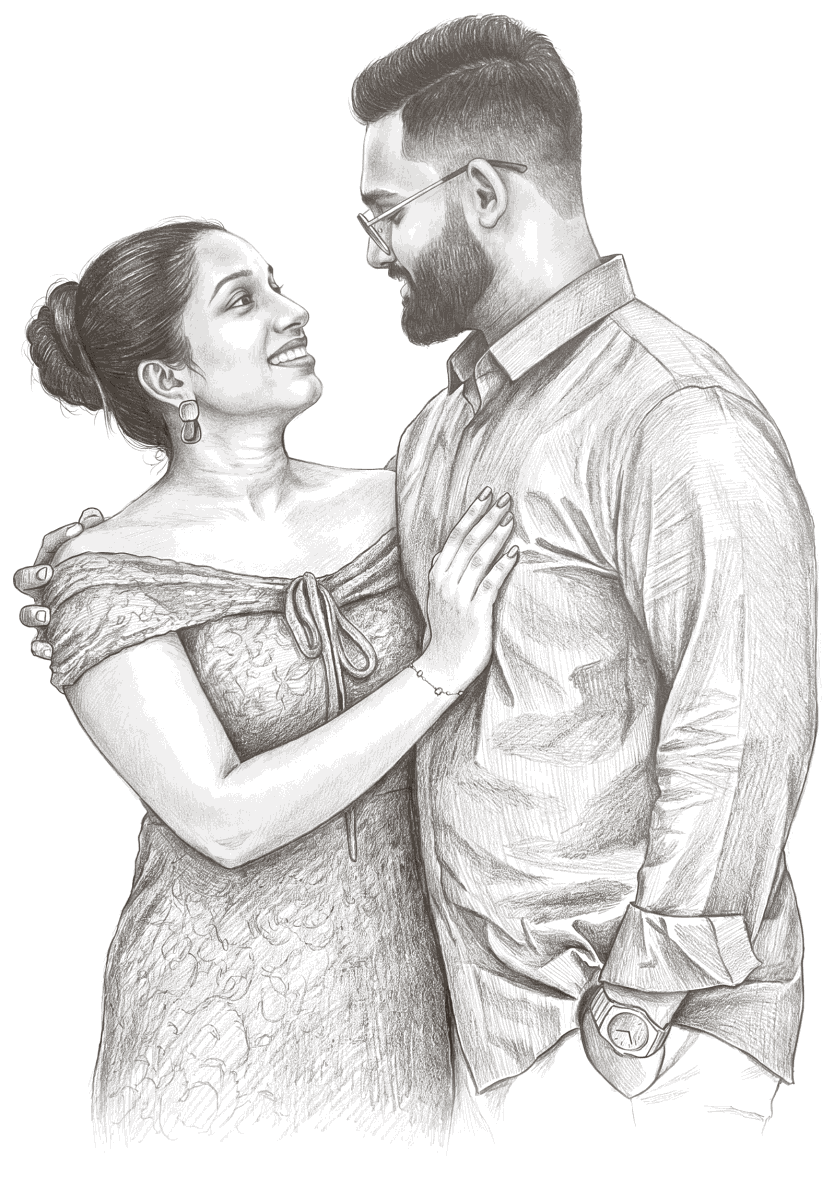
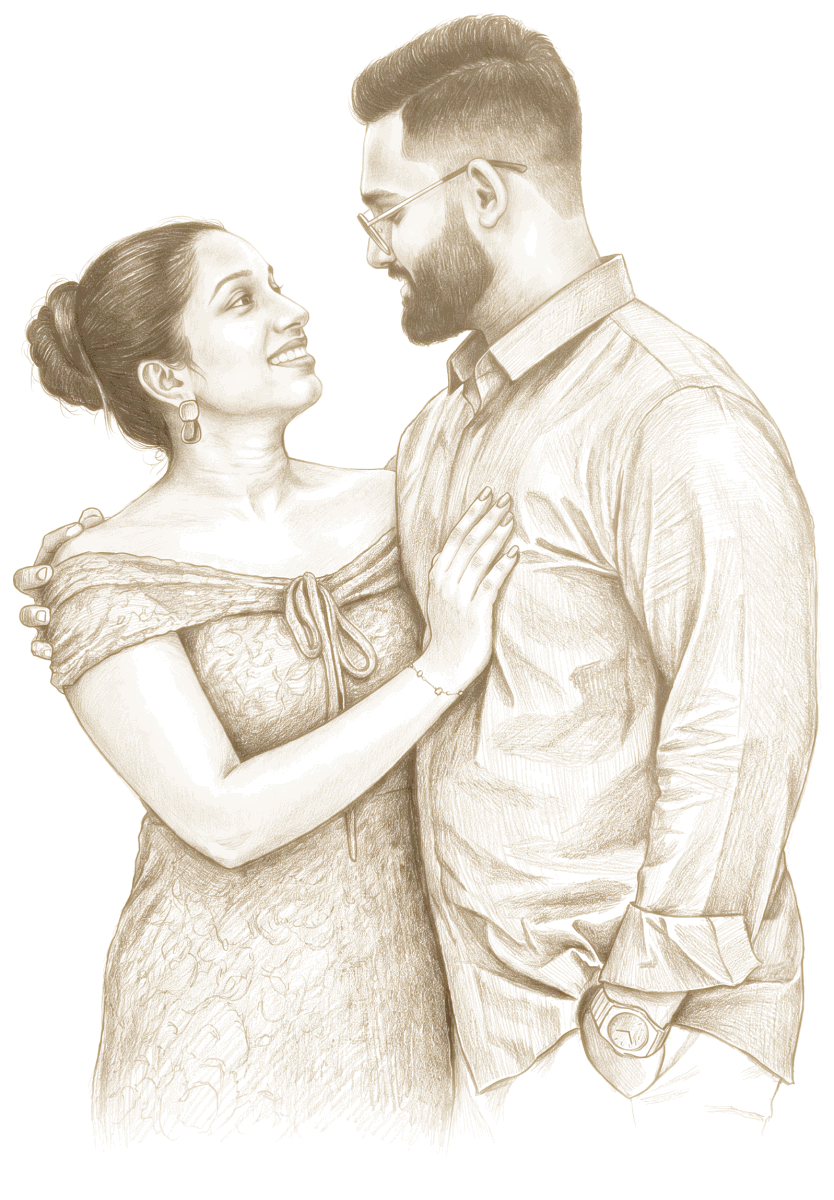
Draw the couple's portrait in the invitation's gold
The pencil portrait at the head of the letter was grey graphite. It is now
in the invitation's own colours: pale champagne gold in the lightest
strokes, the venue drawing's gold in the middle tones and the letter's
dark ink in his hair and beard, so it matches the lettering and the gold
flowers around it and keeps its depth. The pencil's path is unchanged.

Changed region(s): [[0.0, 0.0, 0.9976, 0.9558], [0.0312, 0.185, 0.4053, 0.4317]]

diff --git a/magnolia.css b/magnolia.css
@@ -51,7 +51,8 @@ body{background:var(--paper)}
    A graphite pencil portrait of the two of them, from their photograph under the bell arch with the
    arch and the garden left out, that draws itself when the letter comes into view (couple-drawing.js).
    It stands where the house crest stood: the letter is from the two of them, so they head it. The
-   graphite is a warm one, so it sits on the ivory paper. The figure is the drawing's own shape, 834 by
+   pencil is the invitation's gold, pale champagne in the light strokes and the letter's dark ink in
+   the darkest, so it sits on the ivory paper like the lettering. The figure is the drawing's own shape, 834 by
    1200, sized by its height and as large as the letter allows, because the detail is in their faces.
    The pencil's point is a point of light that rides the end of the stroke while it draws, and leaves
    with it. */

diff --git a/couple-drawing.js b/couple-drawing.js
@@ -1,6 +1,6 @@
 (() => {
- // The couple at the head of the letter: a graphite pencil drawing of them, made from their photograph
- // under the bell arch, that draws itself when the letter comes into view. The pencil goes over the
+ // The couple at the head of the letter: a pencil drawing of them in the invitation's gold, made from
+ // their photograph under the bell arch, that draws itself when the letter comes into view. The pencil goes over the
  // drawing's lines first, then shades it in two passes, the first light and diagonal, the second
  // across it to finish. Each stroke uncovers the finished drawing beneath it, so what the pencil
  // leaves behind is the drawing itself. couple-strokes.js holds the paths and names the drawing

diff --git a/assets/couple/PROVENANCE.md b/assets/couple/PROVENANCE.md
@@ -64,7 +64,9 @@ framed from his hair to below his watch, set on white and uploaded to Weave, whe
     frame, text or signature; the drawing fades out softly at the bottom.
 
 On this computer its paper was then measured and divided out, leaving only the graphite, which is
-saved as warm graphite on a transparent sheet, 834 by 1200, trailing off at the foot.
+saved on a transparent sheet, 834 by 1200, trailing off at the foot. At the user's request it is in
+the invitation's gold rather than grey: pale champagne in the lightest strokes, the venue drawing's
+gold in the middle tones and the letter's dark ink (`--ink`) in the darkest.
 `couple-strokes.js` holds the paths the live drawing's pencil follows over it, its lines and then two
 passes of shading:
 
